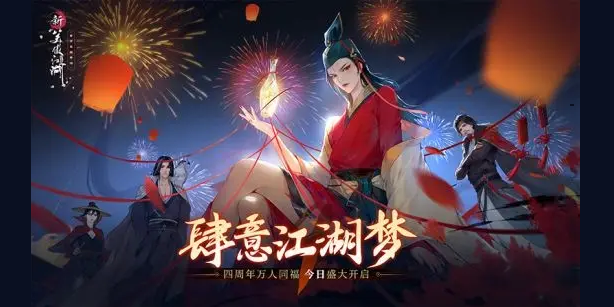
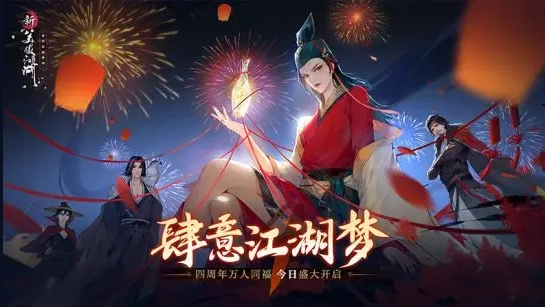
ImageCard ratio re-factoring

diff --git a/lib/IndustryExperience.dart b/lib/IndustryExperience.dart
@@ -1,12 +1,101 @@
 import 'package:flutter/material.dart';
-import 'package:internationalmrrunnerdefy/CustomAppBar.dart';
+import 'package:url_launcher/url_launcher.dart';
+
+import 'package:internationalmrrunnerdefy/ImageCard.dart';
+import 'package:internationalmrrunnerdefy/Styles.dart';
+
+import 'CustomAppBar.dart';
+
+List<ImageCardInfo> _infoList = [
+  ImageCardInfo(
+    title:
+        'Unity China, June,2023-Sept,2023\nIntern engine programmer in Unity Engine',
+    height: 540.0,
+    ratio: 0.45,
+    content:
+        'Report to senior engine programmer, Independently pre-research WebGPU feature for Chinese version Unity engine on Wasm(browser) platform.\n',
+    image: 'E:\\Flutter\\internationalmrrunnerdefy\\img\\Unity.png',
+    backgroundColor: Colors.lightBlue[200]!,
+    lhs: true,
+    navigationWidget: TextButton(
+      child: Text(
+        'Unity.cn website',
+        style: gTitleStyleNormal,
+      ),
+      onPressed: () {
+        final Uri url = Uri.parse('https://unity.cn');
+        launchUrl(url);
+      },
+    ),
+  ),
+  ImageCardInfo(
+    title:
+        'Perfect World, Jan,2021-July,2021\nGame client programmer in Newswordsman moblie game',
+    height: 540.0,
+    ratio: 0.45,
+    content: '',
+    image: 'E:\\Flutter\\internationalmrrunnerdefy\\img\\newswordsman.png',
+    backgroundColor: Colors.lightBlue[50]!,
+    lhs: true,
+    navigationWidget: TextButton(
+      child: Text(
+        'View on Googleplay',
+        style: gTitleStyleNormal,
+      ),
+      onPressed: () {
+        final Uri url = Uri.parse(
+            'https://play.google.com/store/apps/details?id=com.pwrd.newswordsman&hl=en_US&gl=US');
+        launchUrl(url);
+      },
+    ),
+  ),
+  ImageCardInfo(
+    title:
+        'Virtuos, July,2020-Dec,2020\nJunior software engineer in Horizen Zero Dawn and Nier\'s porting',
+    height: 540.0,
+    ratio: 0.45,
+    content: 'Junior software engineer, \n',
+    image: 'E:\\Flutter\\internationalmrrunnerdefy\\img\\nier.png',
+    backgroundColor: Colors.lightBlue[200]!,
+    lhs: true,
+  ),
+  ImageCardInfo(
+    title:
+        'Seasun Gaming, June,2019-Aug,2019\nIntern UE4 gameplay programmer in Sunken Centry moblie game.',
+    height: 540.0,
+    ratio: 0.45,
+    content: 'Intern UE4 gameplay programmer, ',
+    image: 'E:\\Flutter\\internationalmrrunnerdefy\\img\\sunkencentry.jpg',
+    backgroundColor: Colors.lightBlue[50]!,
+    lhs: true,
+    navigationWidget: TextButton(
+      child: Text(
+        'View on Googleplay',
+        style: gTitleStyleNormal,
+      ),
+      onPressed: () {
+        final Uri url = Uri.parse(
+            'https://play.google.com/store/apps/details?id=com.klmagic.pirates&hl=en&gl=US');
+        launchUrl(url);
+      },
+    ),
+  ),
+];
 
 class IndustryExperience extends StatelessWidget {
   static String routeName = "IndustryExperience";
   @override
   Widget build(BuildContext context) {
+    List<Widget> childList = List.empty(growable: true);
+    childList.addAll(_infoList.map((e) => ImageCard(info: e)));
+    childList.addAll(gBottomBarWidgetList());
+    ListView listView = ListView(
+      children: childList,
+    );
     return Scaffold(
       appBar: CustomAppBar(),
+      body: listView,
+      backgroundColor: Colors.lightBlue[50],
     );
   }
 }

diff --git a/lib/HomePage.dart b/lib/HomePage.dart
@@ -10,7 +10,7 @@ import 'package:internationalmrrunnerdefy/main.dart';
 
 import 'CustomAppBar.dart';
 
-ScrollController sHomePageController = ScrollController();
+ScrollController? sHomePageController;
 
 List<ImageCardInfo> _infoList = [
   ImageCardInfo(
@@ -27,11 +27,13 @@ List<ImageCardInfo> _infoList = [
         style: gTitleStyleNormal,
       ),
       onPressed: () {
-        sHomePageController.animateTo(
-          sHomePageController.position.maxScrollExtent,
-          duration: const Duration(milliseconds: 500),
-          curve: Curves.linear,
-        );
+        if (null != sHomePageController) {
+          sHomePageController!.animateTo(
+            sHomePageController!.position.maxScrollExtent,
+            duration: const Duration(milliseconds: 500),
+            curve: Curves.linear,
+          );
+        }
       },
     ),
   ),
@@ -59,7 +61,7 @@ List<ImageCardInfo> _infoList = [
     title: 'As a Programmer',
     height: 400.0,
     content:
-        '     I used to work in Virtuos and Perfect World, participating in console games porting and mobile game client development.\n     Last year I participated in Unity China\'s three-month summer intership, pre-researching WebGPU graphics API for Unity Engine, it was a very rewarding experience for me.',
+        '     I used to work in Virtuos and Perfect World, participating in console games porting and mobile game client development.\n     Last year I participated in Unity China\'s three-month summer internship, pre-researching WebGPU graphics API for Unity Engine, it was a very rewarding experience for me.',
     image: 'E:\\Flutter\\internationalmrrunnerdefy\\img\\Unity0.jpeg',
     backgroundColor: Colors.lightBlue[200]!,
     lhs: true,
@@ -109,25 +111,20 @@ List<ImageCardInfo> _infoList = [
   ),
 ];
 
-class _HomepageBodyState extends State<_HomePageBody> {
-  int _index = 0;
+class _HomePageBody extends StatelessWidget {
   @override
   Widget build(BuildContext context) {
+    sHomePageController = ScrollController();
     List<Widget> tobeChildren = List.empty(growable: true);
     for (ImageCardInfo info in _infoList) {
       tobeChildren.add(ImageCard(info: info));
     }
     tobeChildren.addAll(gBottomBarWidgetList());
     return ListView(
-      controller: sHomePageController,
+      controller: sHomePageController!,
       children: tobeChildren,
     );
   }
-}
-
-class _HomePageBody extends StatefulWidget {
-  @override
-  State<StatefulWidget> createState() => _HomepageBodyState();
 }
 
 class HomePage extends StatelessWidget {

diff --git a/lib/ImageCard.dart b/lib/ImageCard.dart
@@ -7,6 +7,7 @@ import 'package:internationalmrrunnerdefy/Styles.dart';
 class ImageCardInfo {
   String title;
   double height;
+  double ratio;
   String content;
   String image;
   Color backgroundColor;
@@ -19,6 +20,7 @@ class ImageCardInfo {
     required this.image,
     required this.backgroundColor,
     required this.lhs,
+    this.ratio = 0,
     this.navigationWidget,
   });
 }
@@ -33,7 +35,7 @@ class ImageCard extends StatelessWidget implements PreferredSizeWidget {
           File(info.image),
           height: info.height,
           width: width,
-          fit: BoxFit.contain,
+          fit: BoxFit.fitHeight,
         ),
       );
   Widget _contentWidget(double width, double hPadding, double vPadding) =>
@@ -85,7 +87,9 @@ class ImageCard extends StatelessWidget implements PreferredSizeWidget {
       );
   @override
   Widget build(BuildContext context) {
-    double iWidth = info.height * 2;
+    double iWidth = info.ratio == 0
+        ? info.height * 2.0
+        : MediaQuery.of(context).size.width * info.ratio;
     double cWidth = MediaQuery.of(context).size.width - iWidth;
     double hPadding = MediaQuery.of(context).size.width * 0.07;
     hPadding = (cWidth - 2 * hPadding) > 0 ? hPadding : 0;

diff --git a/lib/PersonalProject.dart b/lib/PersonalProject.dart
@@ -5,8 +5,15 @@ class PersonalProject extends StatelessWidget {
   static String routeName = "PersonalProject";
   @override
   Widget build(BuildContext context) {
+    List<Widget> childList = List.empty(growable: true);
+    childList.addAll(gBottomBarWidgetList());
+    ListView listView = ListView(
+      children: childList,
+    );
     return Scaffold(
       appBar: CustomAppBar(),
+      body: listView,
+      backgroundColor: Colors.lightBlue[50],
     );
   }
 }
